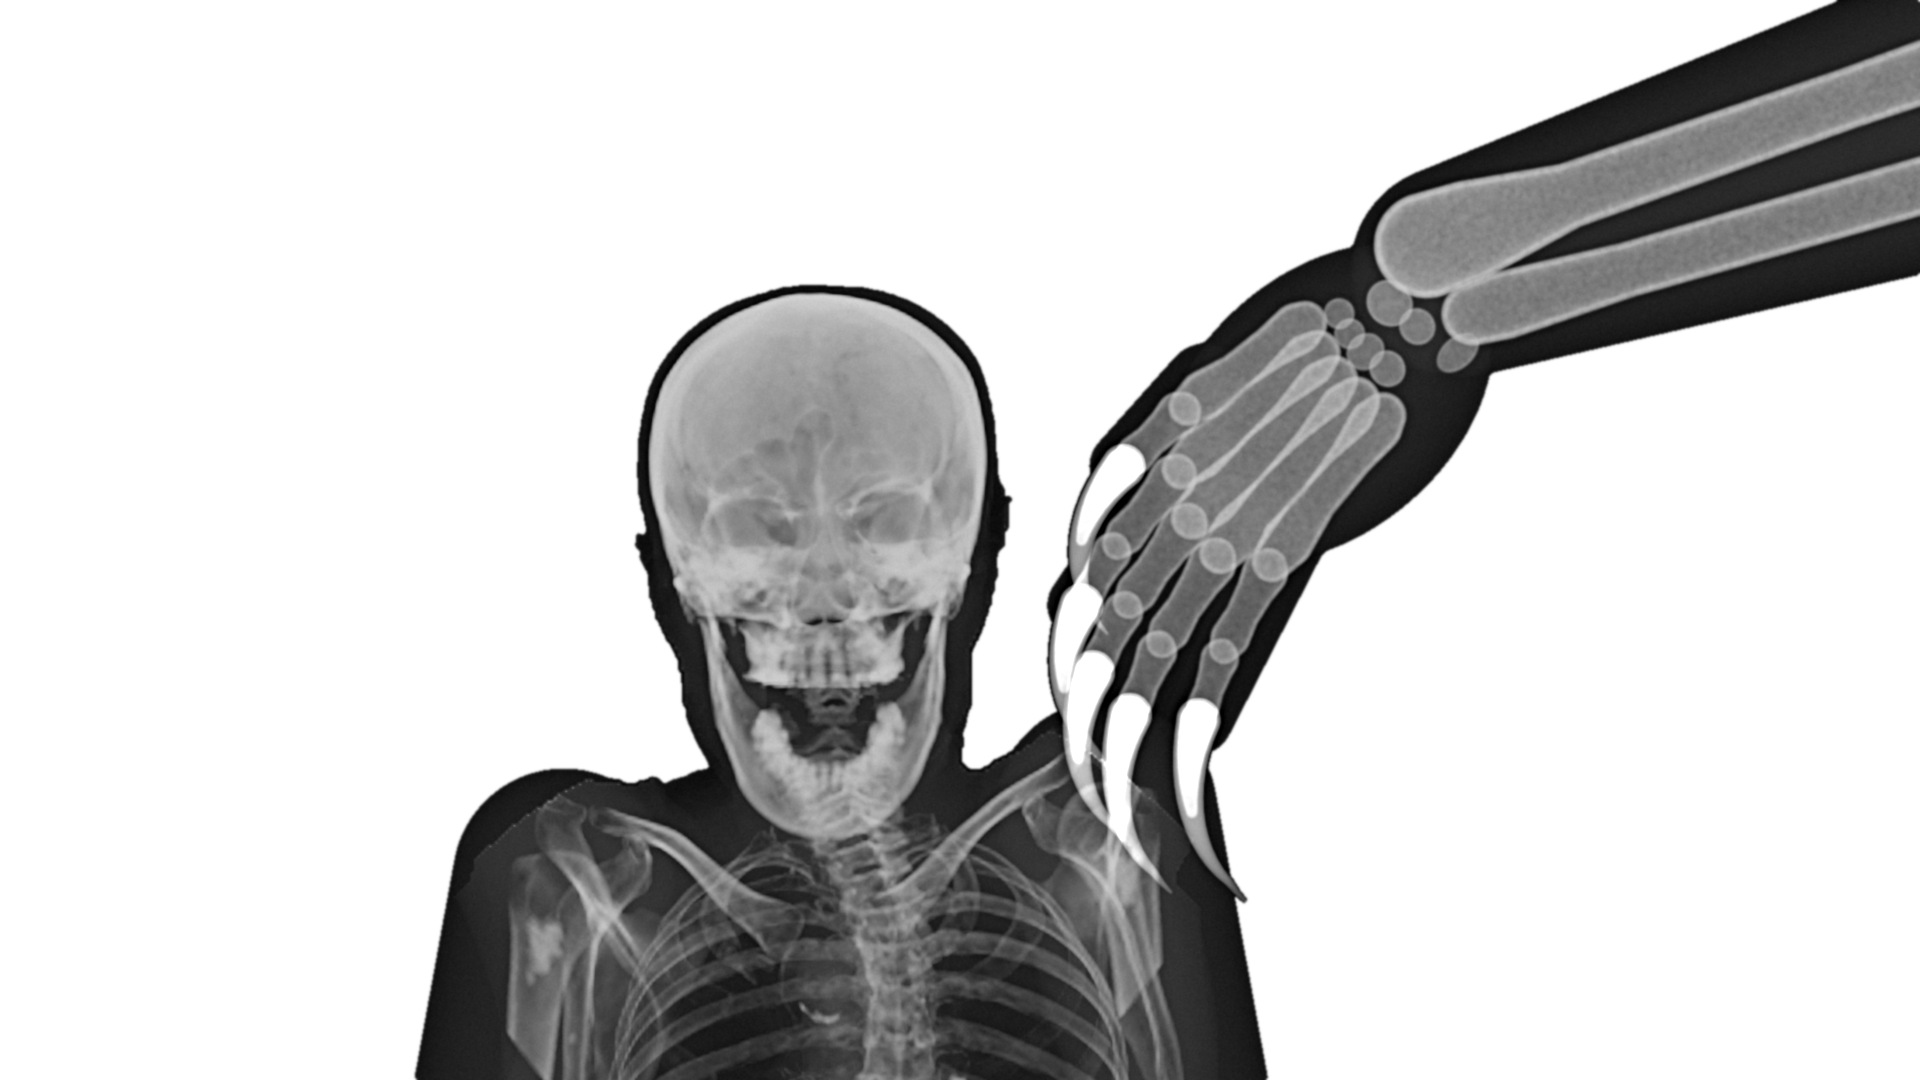
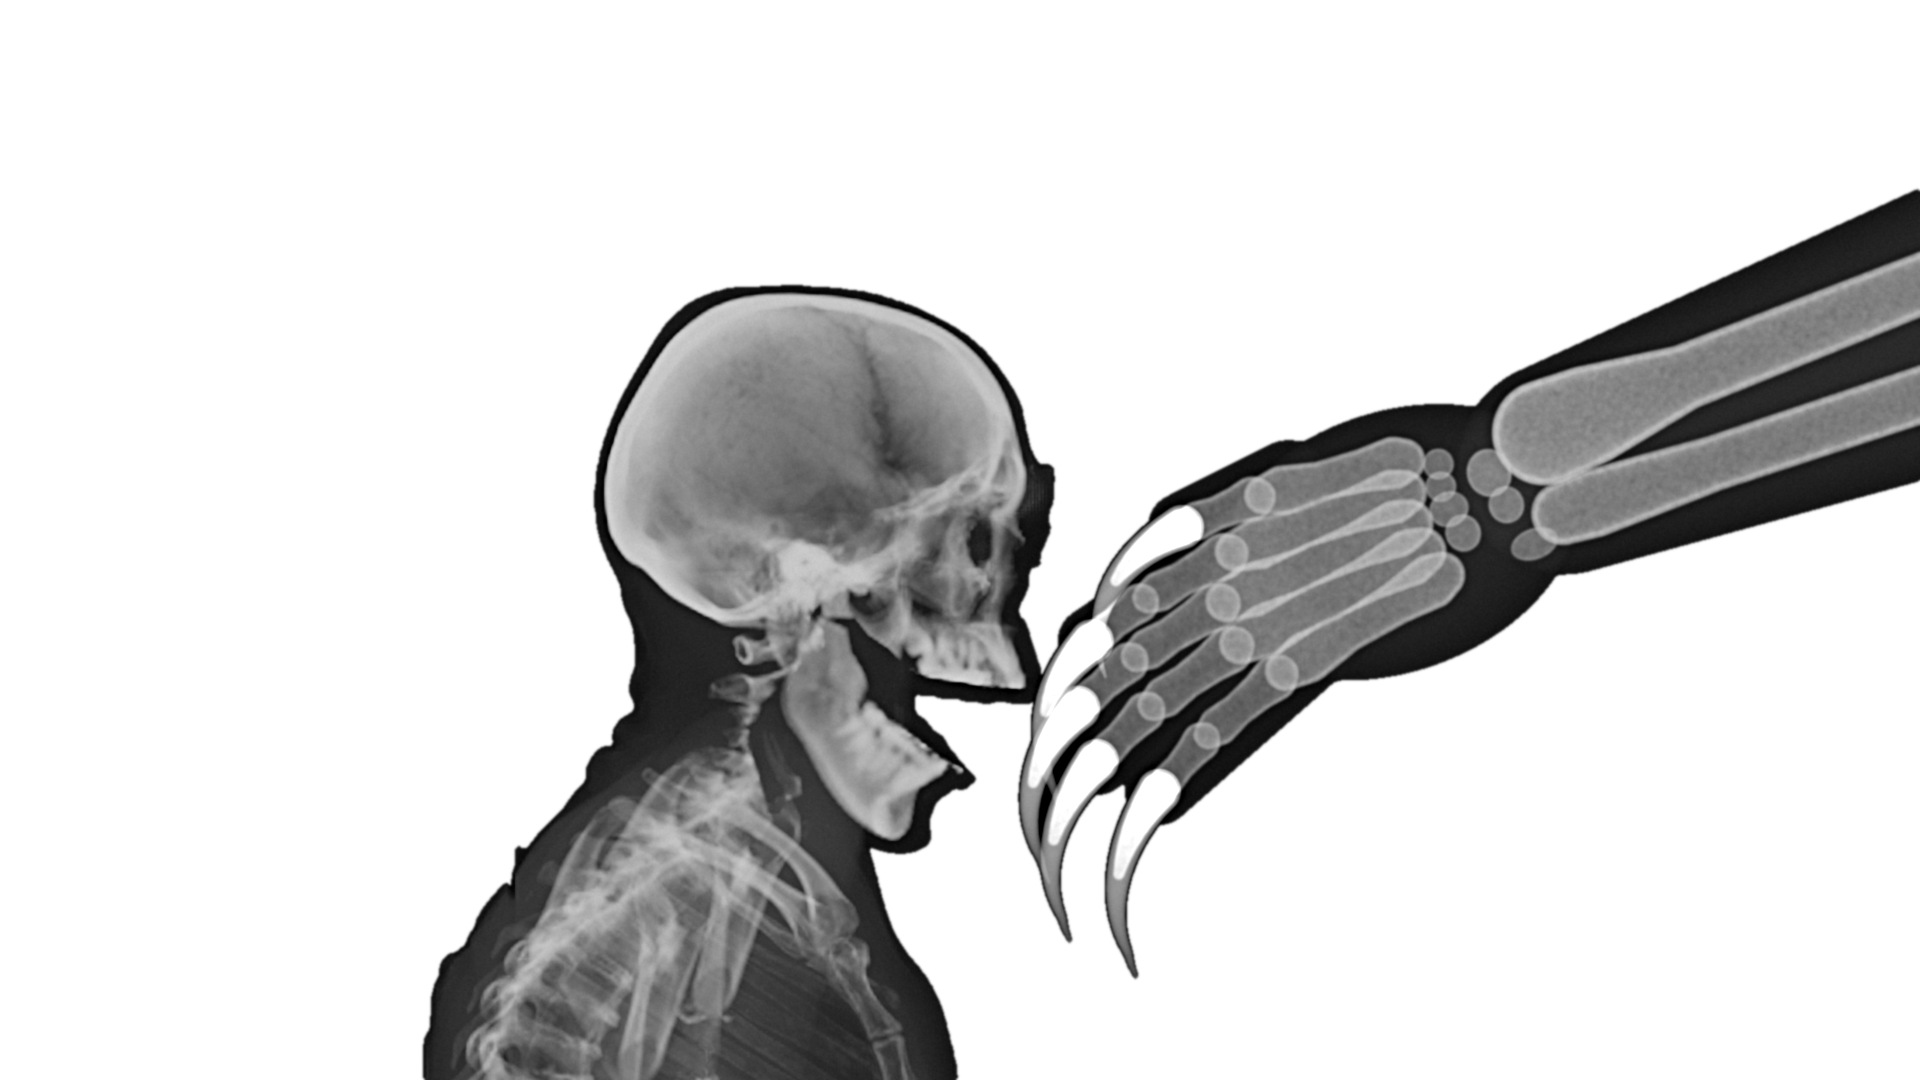
Medved X-ray covers: the person stands facing the bear (side view)
The CT is now projected from the side (view_deg 90, the face to the right):
the person screams straight at the bear's paw, the claws a finger's breadth
from the face; the arrow points at the claws. Side-view fixes in stage_hr:
the dataset's anonymised face gets a thin even soft-tissue rim round the
bones, only the scalp above the nose, a soft-edged jaw cut and no head rest
behind the neck. The upper arms' soft tissue turns with the view. The coffin
cover rebuilds exactly as before.

Claude-Session: https://claude.ai/code/session_01JcvufYoHxu8kHpPsqmm1eS

diff --git a/src/covers/MedvedXray.tsx b/src/covers/MedvedXray.tsx
@@ -1,13 +1,14 @@
 // X-ray covers for «Каково это — умереть от лап медведя», in the manner of the «ЗАКОПАЛИ» cover (a radiograph cut out
-// on the white page, one hand-written word, a thin arrow): a person screams (the jaw wide open) while a brown bear's
-// paw — the thick forearm, five digits and long hooked claws — has sunk its claws into the shoulder by the neck.
+// on the white page, one hand-written word, a thin arrow): seen from the side, a person stands facing the bear and
+// screams (the jaw wide open) — a brown bear's paw (the thick forearm, five digits, long hooked claws) is right in front
+// of the face, the claws a finger's breadth away.
 // public/covers/xray-bear.jpg is computed by scripts/xray-cover/ (bear.sh): the person is the same open CT scan
-// (TotalSegmentator s1380, CC BY 4.0) with the arms lowered; the paw is built from bone shapes with the same X-ray
-// physics, the claws as a bony core inside a keratin sheath.
+// (TotalSegmentator s1380, CC BY 4.0) seen from the side, the arms lowered; the paw is built from bone shapes with the
+// same X-ray physics, the claws as a bony core inside a keratin sheath.
 // Render: npx remotion still CoverMedvedXray out/cover/medved-xray.png
 import React from 'react';
 import {XrayCover} from './kit';
 
-// the word sits over the skull; the arrow runs from its end through the gap between the head and the paw to the claws
-export const CoverMedvedXray: React.FC = () => <XrayCover img="covers/xray-bear.jpg" word="ЗАДРАЛ" cx={820} arrow={{a: [1212, 150], c: [1085, 300], b: [1058, 470]}} />;
-export const CoverMedvedXrayB: React.FC = () => <XrayCover img="covers/xray-bear.jpg" word="ОДИН УДАР" size={176} spacing={14} cx={800} arrow={{a: [1300, 140], c: [1110, 280], b: [1058, 470]}} />;
+// the word sits over the skull; the arrow runs from its end over the paw down to the upper claw, by the face
+export const CoverMedvedXray: React.FC = () => <XrayCover img="covers/xray-bear.jpg" word="ЗАДРАЛ" cx={800} arrow={{a: [1190, 150], c: [1290, 380], b: [1150, 600]}} />;
+export const CoverMedvedXrayB: React.FC = () => <XrayCover img="covers/xray-bear.jpg" word="ОДИН УДАР" size={176} spacing={14} cx={790} arrow={{a: [1290, 140], c: [1330, 380], b: [1150, 600]}} />;

diff --git a/scripts/xray-cover/stage_hr.py b/scripts/xray-cover/stage_hr.py
@@ -26,6 +26,13 @@ lab, n = ndi.label(body)
 body = lab == (1 + int(np.argmax(ndi.sum(body, lab, range(1, n + 1)))))
 for z in range(NZ):
     body[:, :, z] = ndi.binary_fill_holes(body[:, :, z])
+if 'drop_thin_back_y' in P:
+    # side views: the scanner's head rest behind the neck is a thin shell joined to the body — drop thin bits back there
+    yb = P['drop_thin_back_y']
+    back = body[:, :yb, :]
+    thick = ndi.binary_opening(back, iterations=2)
+    body[:, :yb, :] = thick
+    del back, thick
 
 # ---- cut the raised arms: keep the head and neck, round the shoulders
 X = np.arange(NX)[:, None, None].astype(np.float32)
@@ -49,6 +56,11 @@ skd = ndi.binary_dilation(skm, iterations=2)
 junk = np.zeros(a.shape, bool)
 junk[:, :, z0h:] = (a[:, :, z0h:] > 200) & ~skd[:, :, z0h:] & ~vert[:, :, z0h:]
 a = np.where(junk, 30.0, a)
+if 'brow_z_vox' in P:  # side views: above the nose only the scalp and the eyelids stay (no visor, no hands near the face)
+    zb = P['brow_z_vox']
+    near = ndi.distance_transform_edt(~skm[:, :, zb:], sampling=VX) < P['brow_pad_mm']
+    body[:, :, zb:] &= near
+    del near
 del junk
 
 # ---- the humeri: drop the raised ones, put the left one back lowered along the side (and its mirror on the right)
@@ -105,13 +117,50 @@ c, s = np.cos(th), np.sin(th)
 M = np.array([[1, 0, 0], [0, c, -s], [0, s, c]])
 piv = np.array([0, P['tmj_yz'][0], P['tmj_yz'][1]], float)
 off = piv - M @ piv
-rot = ndi.affine_transform(np.where(piece, hu, -1000.0).astype(np.float32), M, offset=off, order=1, cval=-1000.0)
-rmask = ndi.affine_transform(piece.astype(np.float32), M, offset=off, order=1, cval=0.0) > 0.5
-# what the piece leaves: the open mouth is air in the middle, the stretched cheeks are soft tissue at the sides
 xs = np.abs(np.arange(NX)[:, None, None] - xc)
 vac_hu = np.where(xs < P['mouth_half_vox'], -850.0, 20.0).astype(np.float32)
-hu = np.where(piece, np.broadcast_to(vac_hu, hu.shape), hu)
-hu = np.where(rmask, rot, hu)
+if P.get('soft_jaw', False):
+    # the cut follows the outline with a one-voxel ramp (side views would show voxel steps along the teeth)
+    poly = np.array(P['piece_poly'], float)
+    sd = np.full((NY, NZ), np.inf)
+    for i in range(len(poly)):
+        a0, b0 = poly[i], poly[(i + 1) % len(poly)]
+        e = b0 - a0
+        wy, wz = yy - a0[0], zz - a0[1]
+        t = np.clip((wy * e[0] + wz * e[1]) / (e @ e), 0, 1)
+        sd = np.minimum(sd, np.hypot(wy - t * e[0], wz - t * e[1]))
+    sd = np.where(inside, -sd, sd)
+    pw_ = (np.clip(0.5 - sd, 0, 1)[None].astype(np.float32) * (body & ~spine)).astype(np.float32)
+    rot_num = ndi.affine_transform((hu * pw_).astype(np.float32), M, offset=off, order=1, cval=0.0)
+    rot_w = ndi.affine_transform(pw_, M, offset=off, order=1, cval=0.0)
+    hu = hu * (1 - pw_) + vac_hu * pw_
+    hu = (hu * (1 - rot_w) + rot_num).astype(np.float32)
+    piece = pw_ > 0.5
+    del rot_num, rot_w, pw_
+    rot = rmask = None
+else:
+    rot = ndi.affine_transform(np.where(piece, hu, -1000.0).astype(np.float32), M, offset=off, order=1, cval=-1000.0)
+    rmask = ndi.affine_transform(piece.astype(np.float32), M, offset=off, order=1, cval=0.0) > 0.5
+    # what the piece leaves: the open mouth is air in the middle, the stretched cheeks are soft tissue at the sides
+    hu = np.where(piece, np.broadcast_to(vac_hu, hu.shape), hu)
+    hu = np.where(rmask, rot, hu)
+if 'face_rim_mm' in P:
+    # side views: the dataset's faces are anonymised (the nose and lips blurred away), so in front of the ears the
+    # face keeps only a thin even layer of soft tissue round the bones (the opened jaw included) — a skull X-ray look
+    sk_rot = (skm & ~piece) | (ndi.affine_transform((skm & piece).astype(np.float32), M, offset=off, order=1, cval=0.0) > 0.5)
+    x0f, x1f, y0f, z0f, z1f = P['face_box_vox']
+    box = sk_rot[x0f:x1f, y0f - 40:, z0f - 20:z1f + 20]
+    dist = ndi.distance_transform_edt(~box, sampling=VX)[:, 40:, 20:-20]
+    sub = hu[x0f:x1f, y0f:, z0f:z1f]
+    rim = P['face_rim_mm']
+    core = ndi.binary_erosion(body[x0f:x1f, y0f:, z0f:z1f], iterations=3)
+    # the blurred front gets plain soft tissue inside the rim (the sinuses and the mouth inside the head stay as they are)
+    filled = np.where((sub < -300) & ~core & (dist < rim), 30.0, sub)
+    w = np.clip((rim - dist) / 3.0 + 0.5, 0, 1)  # a soft 3 mm edge, no voxel steps
+    fy = np.clip(np.arange(sub.shape[1], dtype=np.float32) / P['face_feather_vox'], 0, 1)[None, :, None]
+    w = 1 - fy * (1 - w)  # blend in from the back edge of the box: no seam
+    hu[x0f:x1f, y0f:, z0f:z1f] = (w * filled + (1 - w) * -1000.0).astype(np.float32)
+    del sk_rot, box, dist, sub, core, filled, w
 del rot, rmask, piece
 
 # ---- one smooth outline (front view) for head, neck and shoulders: the skull (with the opened jaw) padded by the
@@ -152,12 +201,23 @@ yv = (ys_mm / VX - y_lo).astype(np.float32)
 DY = P['dy_mm']
 SB = P['soft_sig']; BB = P['bone_sig']
 
+TH = np.deg2rad(P.get('view_deg', 0.0))
+RC = P.get('rot_center_mm', [0.0, 0.0])
+def grid_xy():
+    if TH == 0:
+        return np.meshgrid(xv, yv, indexing='ij')
+    # the frame's horizontal axis e_h = (cos, sin), the ray e_d = (-sin, cos), both about the centre RC
+    Hm, Tm = np.meshgrid(xmm(us), ys_mm, indexing='ij')
+    X = RC[0] + (Hm - RC[0]) * np.cos(TH) - (Tm - RC[1]) * np.sin(TH)
+    Y = RC[1] + (Hm - RC[0]) * np.sin(TH) + (Tm - RC[1]) * np.cos(TH)
+    return (X / VX - x_lo).astype(np.float32), (Y / VX - y_lo).astype(np.float32)
+GX, GY = grid_xy()
 def rows(vr):
     out_b = np.zeros((len(vr), len(us)), np.float32)
     out_s = np.zeros((len(vr), len(us)), np.float32)
     for i, v in enumerate(vr):
         zv = np.float32(zmm(v) / VX - z_lo)
-        Xg, Yg = np.meshgrid(xv, yv, indexing='ij')
+        Xg, Yg = GX, GY
         coords = np.stack([Xg, Yg, np.full_like(Xg, zv)])
         h = ndi.map_coordinates(COEF, coords, order=3, prefilter=False, mode='nearest')
         ind_s = 1 / (1 + np.exp(-(h - SB[0]) / SB[1]))

diff --git a/scripts/xray-cover/stage_paw.py b/scripts/xray-cover/stage_paw.py
@@ -205,9 +205,16 @@ for dg in pw['digits']:
     nodes = [(p0, pw['r_digit'][0] * SC), (p1, pw['r_digit'][1] * SC)]
     pts = np.array([n_[0] for n_ in nodes]); rm = pw['r_digit'][0] * SC + 3
     add_soft(lambda p, nodes=nodes: chain_sdf(p, nodes), pts.min(0) - rm, pts.max(0) + rm, vox=0.8)
-# the person's lowered upper arms
+# the person's lowered upper arms (turned like the person when the CT is seen from another side)
+FR = json.load(open(FRAME))
+TH = np.deg2rad(FR.get('view_deg', 0.0)); RC = FR.get('rot_center_mm', [0.0, 0.0])
+def to_view(p):
+    x, y, z = p
+    h = RC[0] + (x - RC[0]) * np.cos(TH) + (y - RC[1]) * np.sin(TH)
+    d = RC[1] - (x - RC[0]) * np.sin(TH) + (y - RC[1]) * np.cos(TH)
+    return np.array([h, d, z], float)
 for arm_ in P['upper_arms']:
-    S_, E_ = np.array(arm_['shoulder'], float), np.array(arm_['elbow'], float)
+    S_, E_ = to_view(np.array(arm_['shoulder'], float)), to_view(np.array(arm_['elbow'], float))
     nodes = [(S_, arm_['r'][0]), (lerp(S_, E_, 0.5), arm_['r'][1]), (E_, arm_['r'][2])]
     pts = np.array([n_[0] for n_ in nodes]); rm = max(arm_['r']) + 2
     add_soft(lambda p, nodes=nodes: chain_sdf(p, nodes), pts.min(0) - rm, pts.max(0) + rm, vox=1.2)

diff --git a/README.md b/README.md
@@ -647,12 +647,16 @@ npx remotion still CoverMedved out/cover/medved.png --scale=1.5
 
 ### Рентген-обложки «Медведь» (`src/covers/MedvedXray.tsx`)
 
-Как «ЗАКОПАЛИ»: белый фон, чёрно-белый рентген, одно слово от руки и тонкая стрелка. Человек кричит (челюсть
-открыта), огромная медвежья лапа — толстое предплечье с двумя костями, пять пальцев и длинные загнутые когти —
-впилась когтями в плечо у шеи; стрелка от слова показывает на когти.
+Как «ЗАКОПАЛИ»: белый фон, чёрно-белый рентген, одно слово от руки и тонкая стрелка. Вид сбоку: человек стоит лицом
+к медведю и кричит (челюсть открыта), прямо перед лицом огромная медвежья лапа — толстое предплечье с двумя костями,
+пять пальцев и длинные загнутые когти в сантиметре от лица; стрелка от слова показывает на когти.
 - `CoverMedvedXray` — «ЗАДРАЛ», `CoverMedvedXrayB` — «ОДИН УДАР».
 - Картинку `public/covers/xray-bear.jpg` собирает `scripts/xray-cover/bear.sh` (~4 минуты):
-  - `stage_hr.py` с `hr_bear.json` — тот же человек из открытой КТ, руки опущены, кадр ближе (голова, плечи, грудь);
+  - `stage_hr.py` с `hr_bear.json` — тот же человек из открытой КТ, руки опущены, кадр ближе (голова, плечи, грудь),
+    снимок сбоку (`view_deg: 90`, лицо вправо). Для вида сбоку есть поправки: лица в наборе анонимизированы (нос и
+    губы размыты), поэтому у лица остаётся тонкий ровный слой мягких тканей вокруг костей (`face_rim_mm`), над носом —
+    только кожа у черепа (`brow_z_vox`), челюсть вырезается с мягким краем (`soft_jaw`), а тонкий подголовник
+    сканера за шеей убирается (`drop_thin_back_y`);
   - `stage_paw.py` — лапа медведя из костей с плотной стенкой и костным мозгом внутри, когти — костный стержень в
     роговом чехле (отдельный канал, светлее мягких тканей); заодно мягкие ткани опущенных плеч человека;
   - `stage_cutout.py` — кривая плёнки, подчёркивание краёв, зерно и чистый вырез по сглаженному силуэту на белом.
